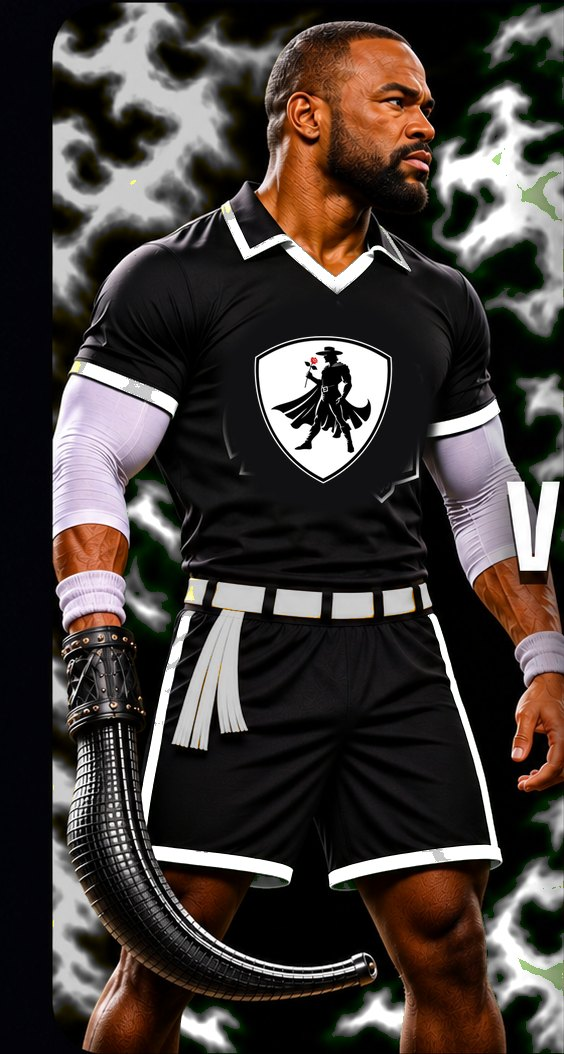
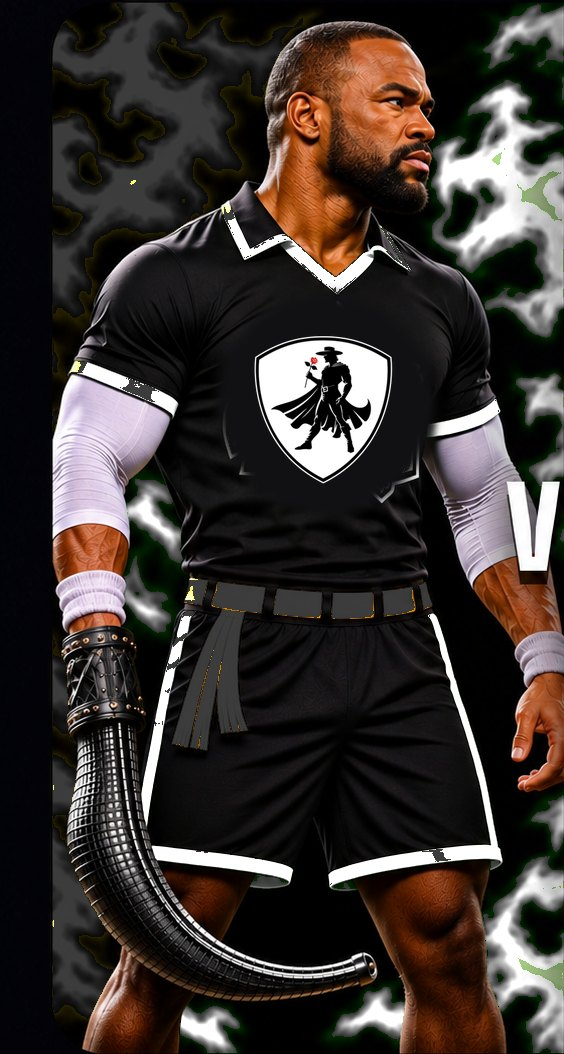
Don Juans belt matte black; Seamen trim and belt solid gold
Claude-Session: https://claude.ai/code/session_01RXYkimbn35SjoihCfai7fS

diff --git a/index.html b/index.html
@@ -18,7 +18,7 @@ img { max-width: 100%; }
 [hidden] { display: none !important; }
 </style>
 <script>
-window.FL_BUILD = "20261120203507";
+window.FL_BUILD = "20261120204200";
 window.FL_RELAY = "wss://relay-production-5e78c1a2.up.railway.app/ws";
 window.FL_STATS = "https://relay-production-5e78c1a2.up.railway.app/t";
 window.FL_FEEDBACK = "https://relay-production-5e78c1a2.up.railway.app/feedback";
@@ -736,7 +736,7 @@ body.poster-on #tapPlay { display: block; position: sticky; bottom: calc(26px + 
 </div>
 
 <script>
-window.FL_LOOK2 = 1; window.FL_PROMO = { tag: "Limited Edition · Celebrity Match Up", target: 15, adEvery: 5, modes: ["aerial", "side", "table"], teams: [0, 1, 2, 3, 4, 5], people: [{ name: "Suga Rashad Evans", team: 0, look: 1, face: "celeb-face-1.jpg?v=1", art: { 0: "celeb-1-0.jpg?v=2", 1: "celeb-1-1.jpg?v=2", 2: "celeb-1-2.jpg?v=2", 3: "celeb-1-3.jpg?v=2", 4: "celeb-1-4.jpg?v=2", 5: "celeb-1-5.jpg?v=2" } }, { name: "Ken Shamrock", team: 1, look: -1, face: "celeb-face-2.jpg?v=1", art: { 0: "celeb-2-0.jpg?v=2", 1: "celeb-2-1.jpg?v=2", 2: "celeb-2-2.jpg?v=2", 3: "celeb-2-3.jpg?v=2", 4: "celeb-2-4.jpg?v=2", 5: "celeb-2-5.jpg?v=2" } }] }; window.FL_POSTER = 1; window.FL_MUSIC = 1;
+window.FL_LOOK2 = 1; window.FL_PROMO = { tag: "Limited Edition · Celebrity Match Up", target: 15, adEvery: 5, modes: ["aerial", "side", "table"], teams: [0, 1, 2, 3, 4, 5], people: [{ name: "Suga Rashad Evans", team: 0, look: 1, face: "celeb-face-1.jpg?v=1", art: { 0: "celeb-1-0.jpg?v=3", 1: "celeb-1-1.jpg?v=3", 2: "celeb-1-2.jpg?v=3", 3: "celeb-1-3.jpg?v=3", 4: "celeb-1-4.jpg?v=3", 5: "celeb-1-5.jpg?v=3" } }, { name: "Ken Shamrock", team: 1, look: -1, face: "celeb-face-2.jpg?v=1", art: { 0: "celeb-2-0.jpg?v=3", 1: "celeb-2-1.jpg?v=3", 2: "celeb-2-2.jpg?v=3", 3: "celeb-2-3.jpg?v=3", 4: "celeb-2-4.jpg?v=3", 5: "celeb-2-5.jpg?v=3" } }] }; window.FL_POSTER = 1; window.FL_MUSIC = 1;
 /* ---------- Jai alai rules + physics (no DOM) ---------- */
 var Core = (function () {
   'use strict';
